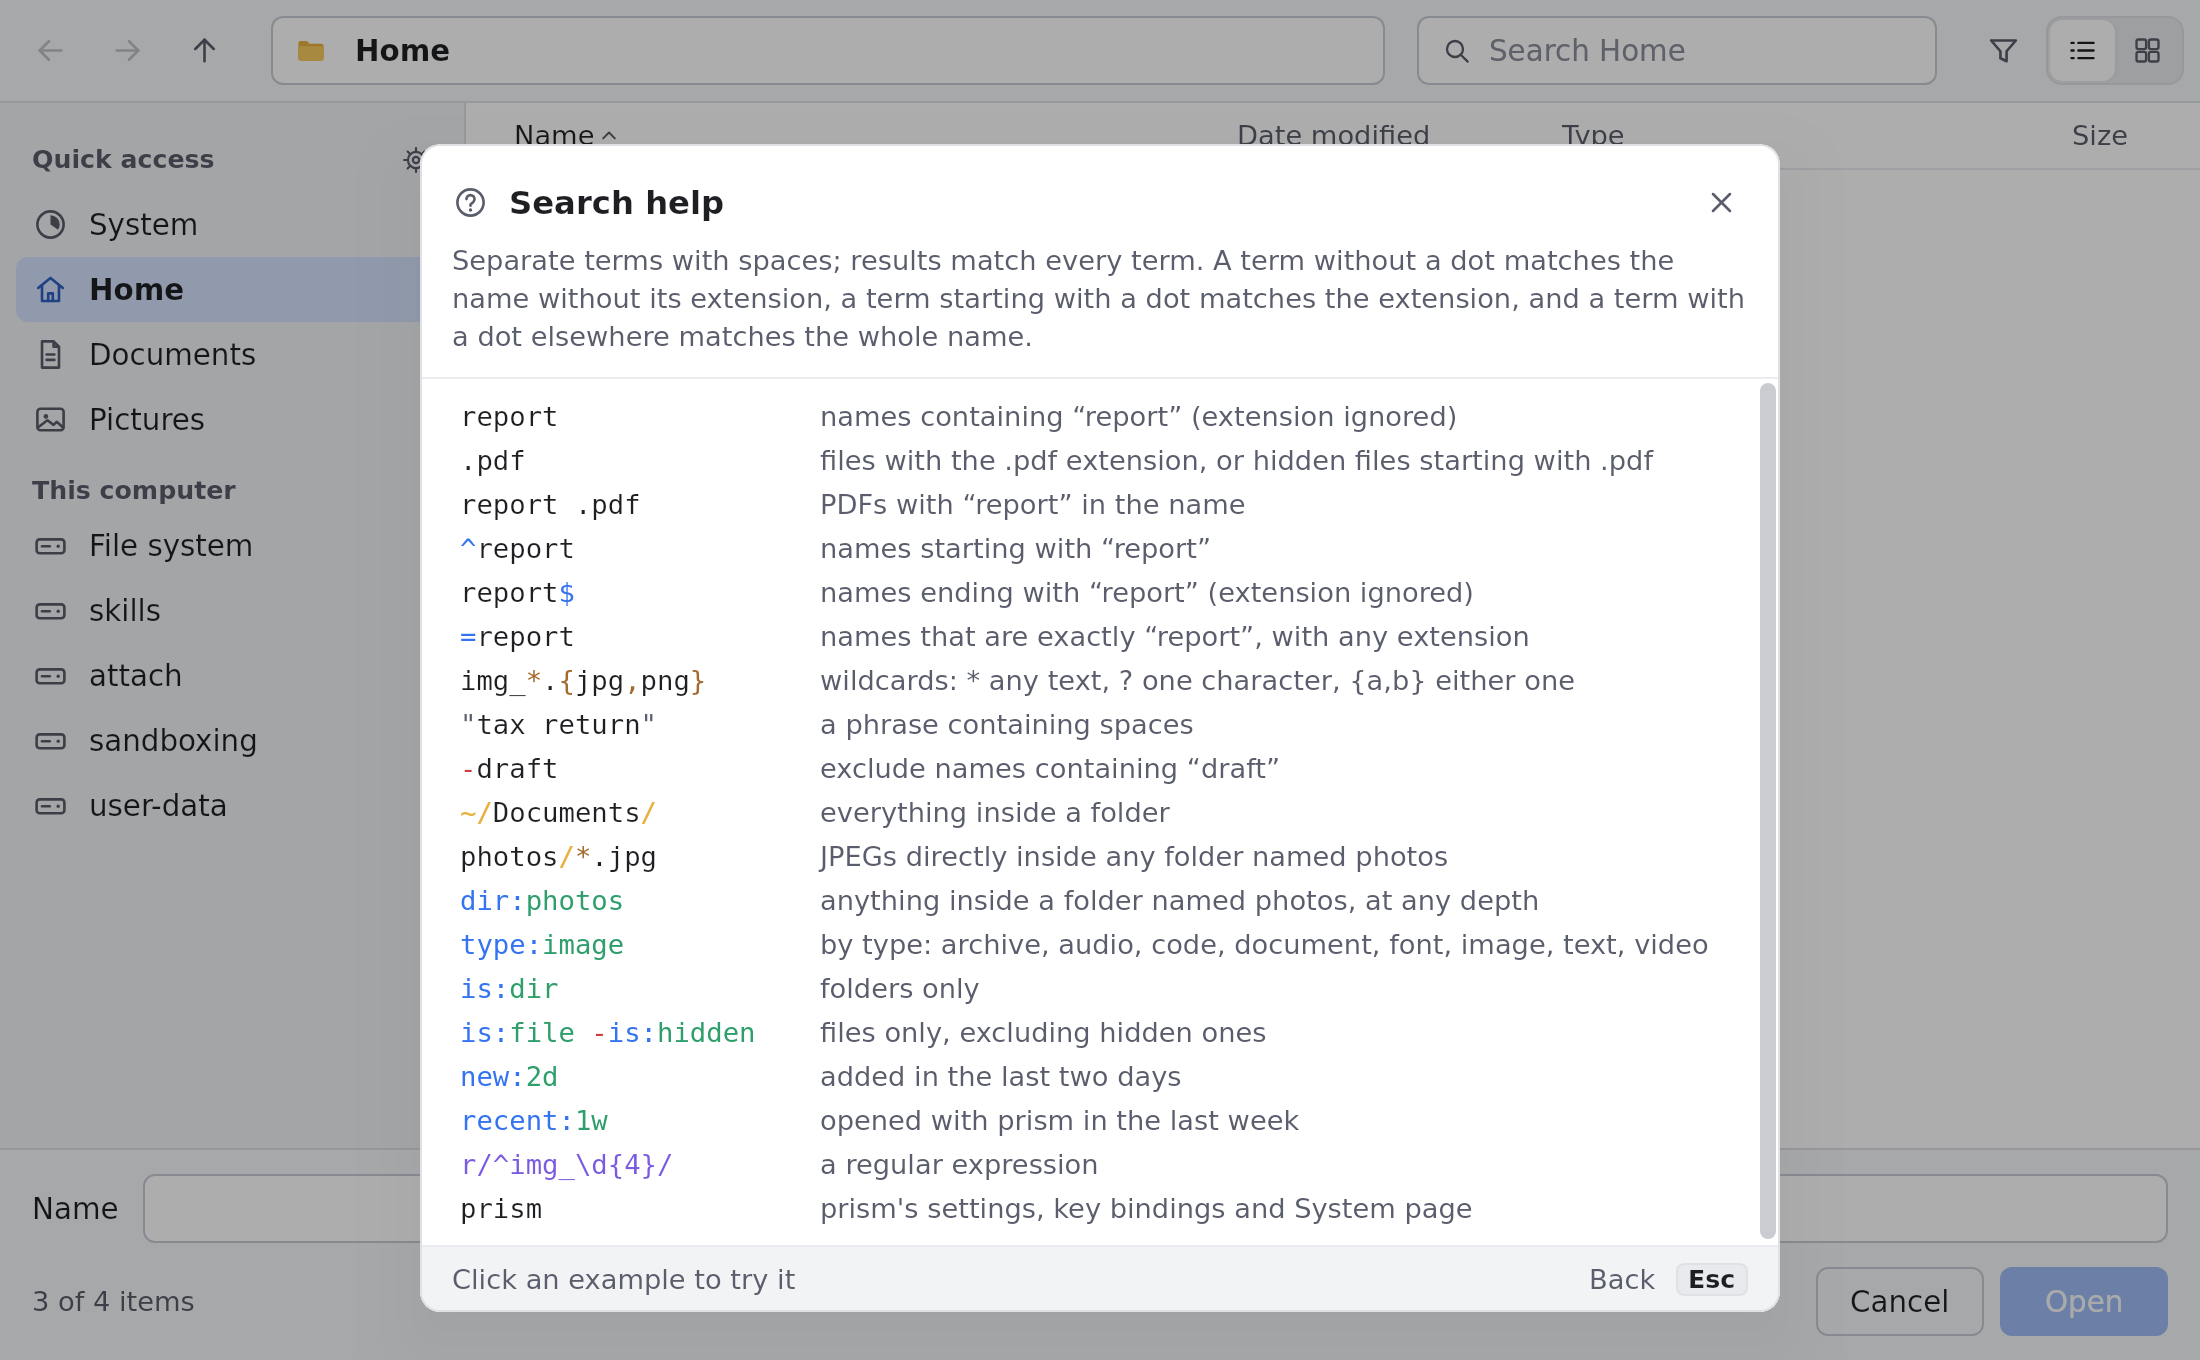
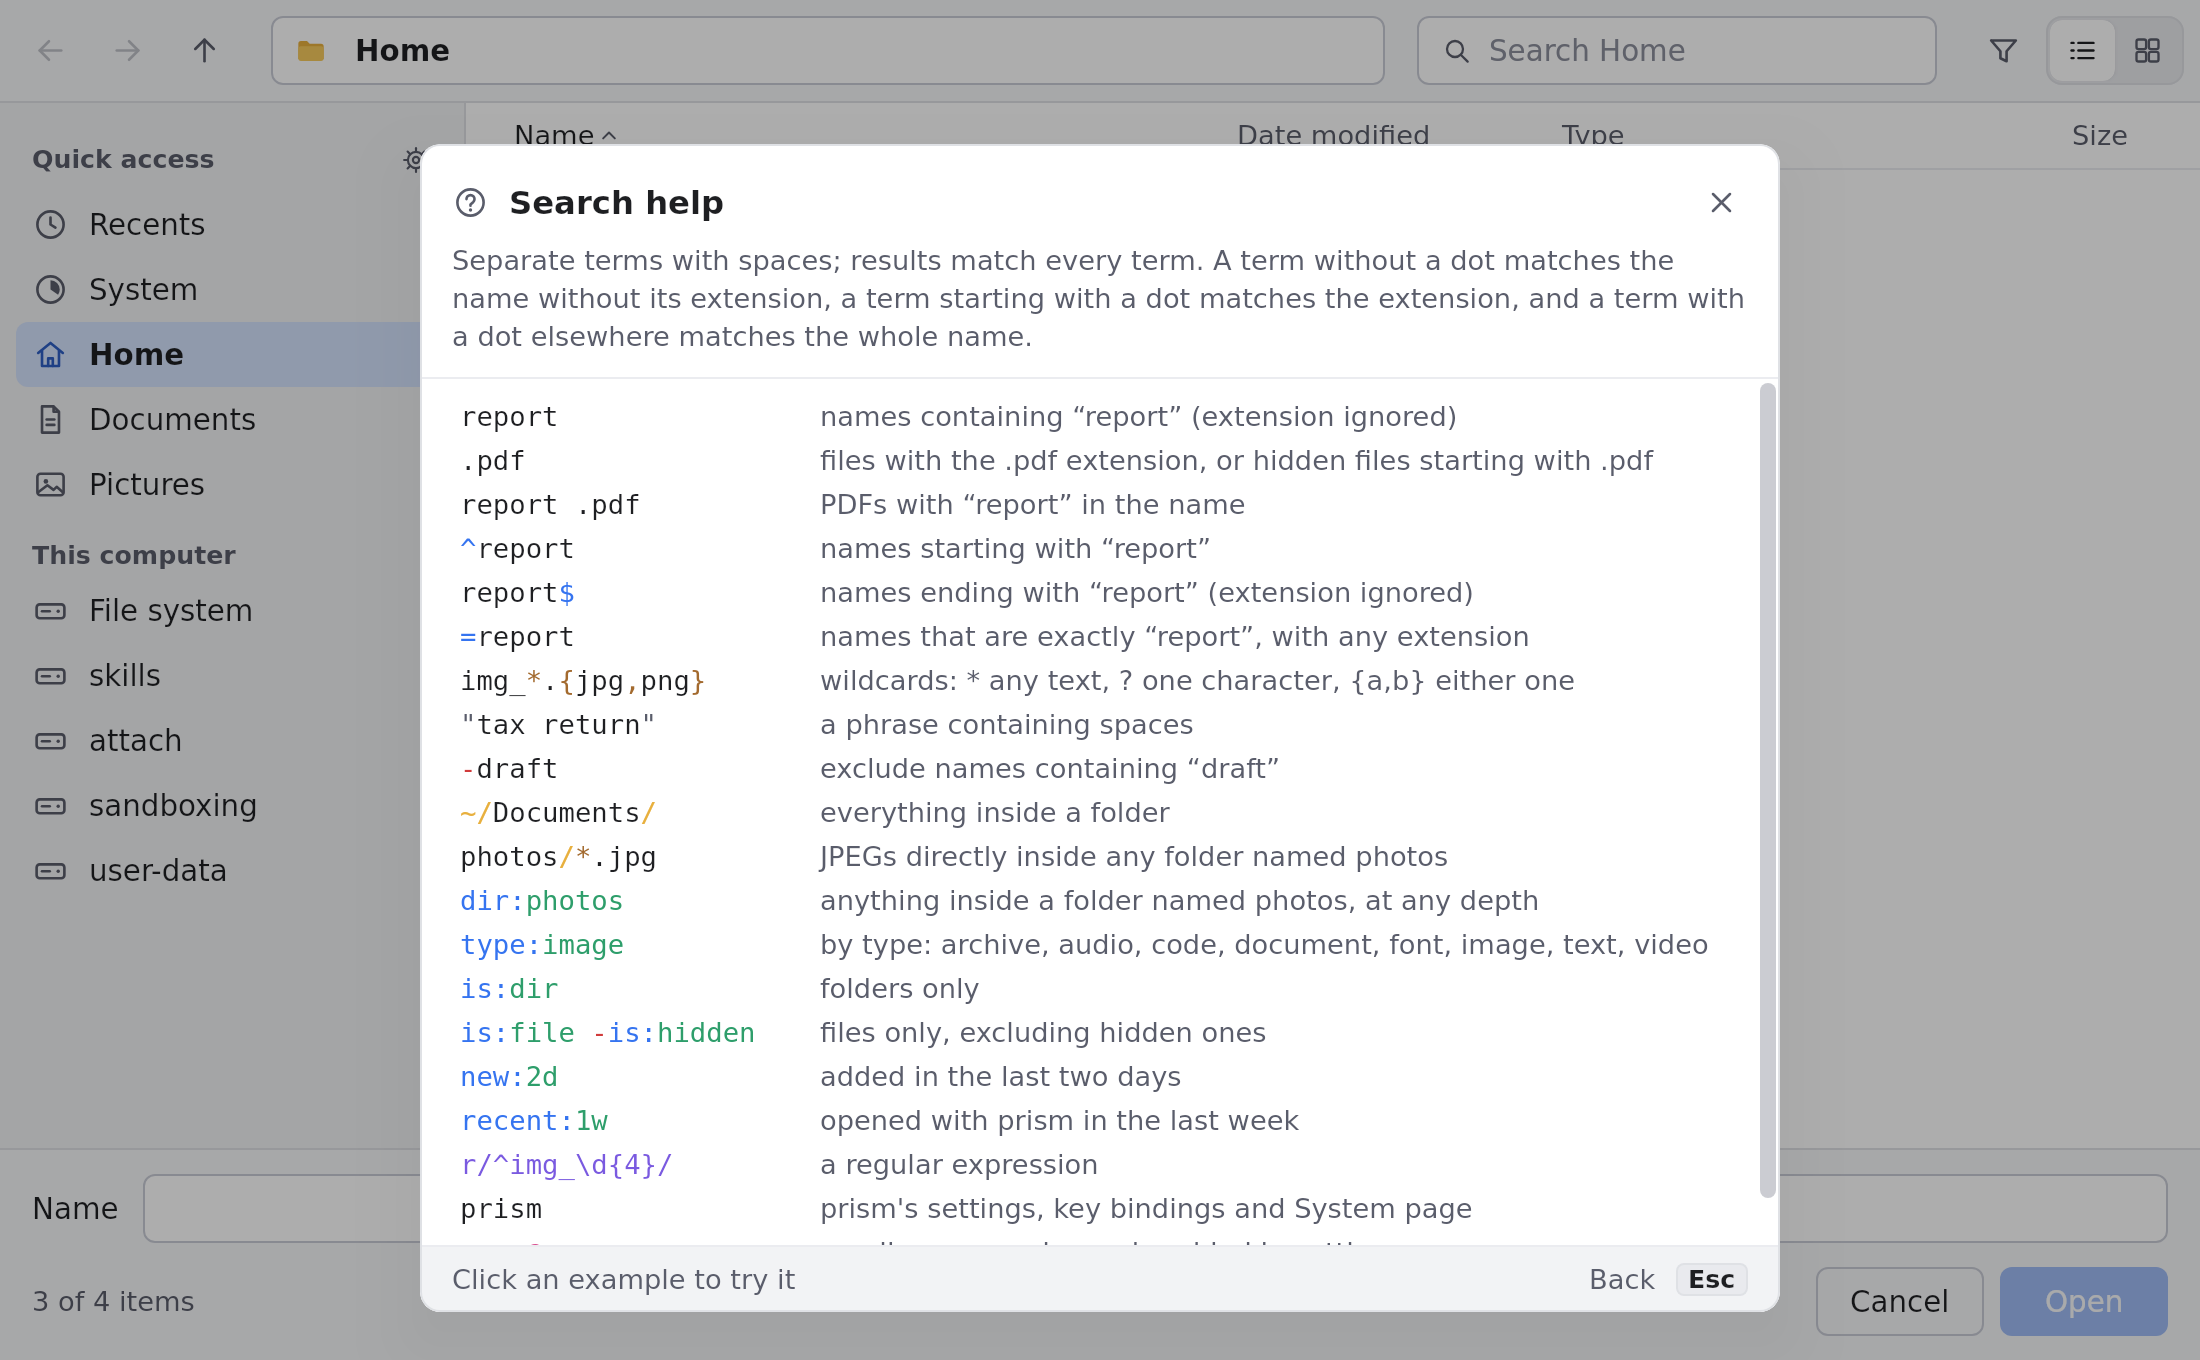
dmenu takes only the options it acts on; the docs' pictures show the sidebar with Recents in it
Vicinae's --no-quick-look and --no-metadata were taken and did nothing: they are gone. The pictures in docs that
show the sidebar, the launcher's footer and the settings windows' pages are rendered again, now that Recents,
aliases and pinned search are in them; a comment left over a removed event is gone too.

Claude-Session: https://claude.ai/code/session_01J1r69Jaca9mCPXayHaXTAB

diff --git a/client/src/main/kotlin/prism/client/dmenu.kt b/client/src/main/kotlin/prism/client/dmenu.kt
@@ -119,12 +119,6 @@ open class DmenuCommand(
 	private val noFooter = flagged("--no-footer", "hide the footer")
 	private val password = flagged("--password", "show the search text as dots")
 
-	init {
-		// Vicinae's, of a preview prism does not have: taken, so its command lines work, and nothing done.
-		flagged("--no-quick-look", "accepted for compatibility with vicinae; does nothing")
-		flagged("--no-metadata", "accepted for compatibility with vicinae; does nothing")
-	}
-
 	/** What [args] ask for. */
 	fun options(args: Args): DmenuOptions =
 		DmenuOptions(

diff --git a/client/src/test/kotlin/prism/client/dmenutest.kt b/client/src/test/kotlin/prism/client/dmenutest.kt
@@ -143,15 +143,13 @@ class DmenuCommandTest {
 				"--password",
 			),
 		)
-		// A title asked for and then not: there is none. What Vicinae says of its preview is taken, and does nothing.
+		// A title asked for and then not: there is none.
 		assertEquals(
 			DmenuOptions(),
 			optionsOf(
 				"--section-title",
 				"Files",
 				"--no-section",
-				"--no-quick-look",
-				"--no-metadata",
 			),
 		)
 	}

diff --git a/browser/src/main/kotlin/prism/browser/events.kt b/browser/src/main/kotlin/prism/browser/events.kt
@@ -174,8 +174,6 @@ sealed interface BrowserEvent : Input {
 		val last: Int,
 	) : BrowserEvent
 
-	/** The date column made to show [date]: when files were last modified, or when they were made. */
-
 	/** [column] shown in the listing, or left out. */
 	data class ShowedColumn(
 		val column: ColumnId,

diff --git a/docs/launcher.md b/docs/launcher.md
@@ -176,7 +176,6 @@ changed:
 | `-W`, `--width PIXELS`, `-H`, `--height PIXELS` | the window's size, where the launcher's own is not wanted |
 | `--no-footer` | no line along the bottom |
 | `--password` | what is typed is shown as dots |
-| `--no-quick-look`, `--no-metadata` | taken, for Vicinae's command lines, and nothing done: prism has no preview |
 
 The window is the launcher's: where it is on the screen, its size, its corners and whether it closes when another
 window is given the keyboard are the launcher's settings (below), and a compositor's rule for the launcher is a rule
